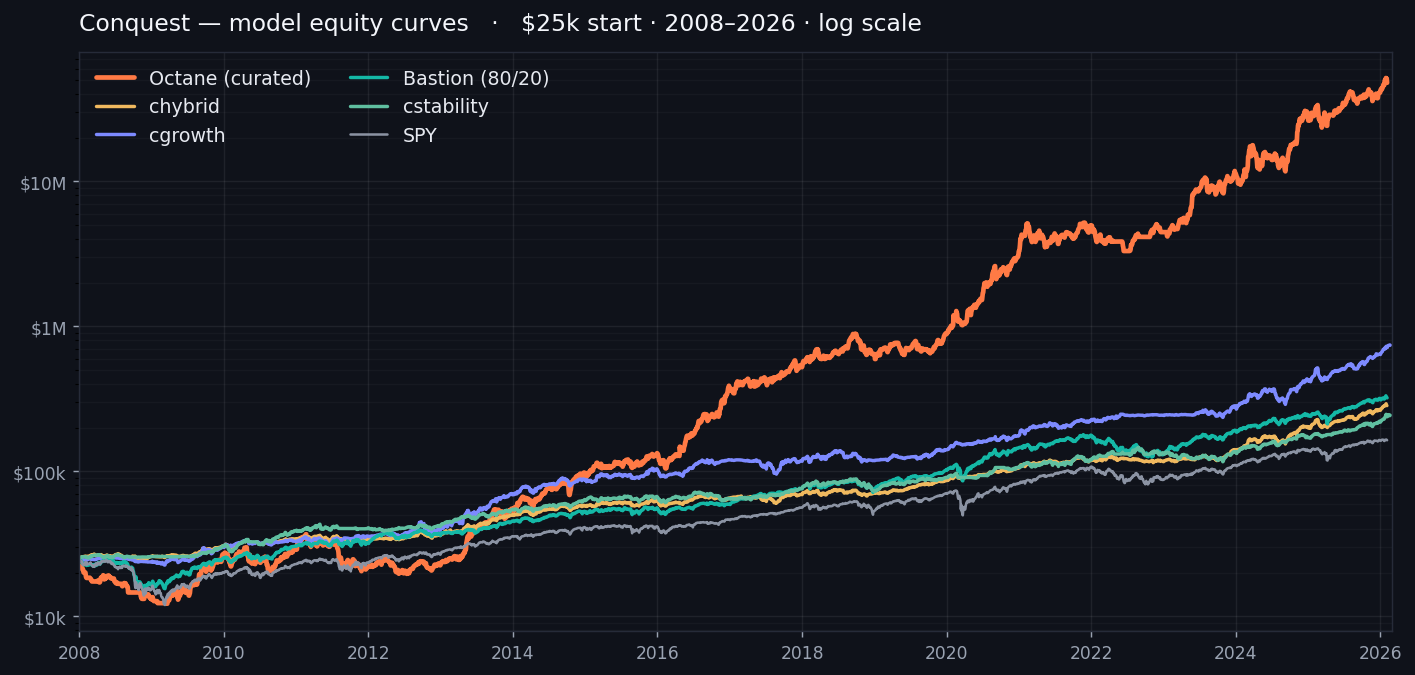
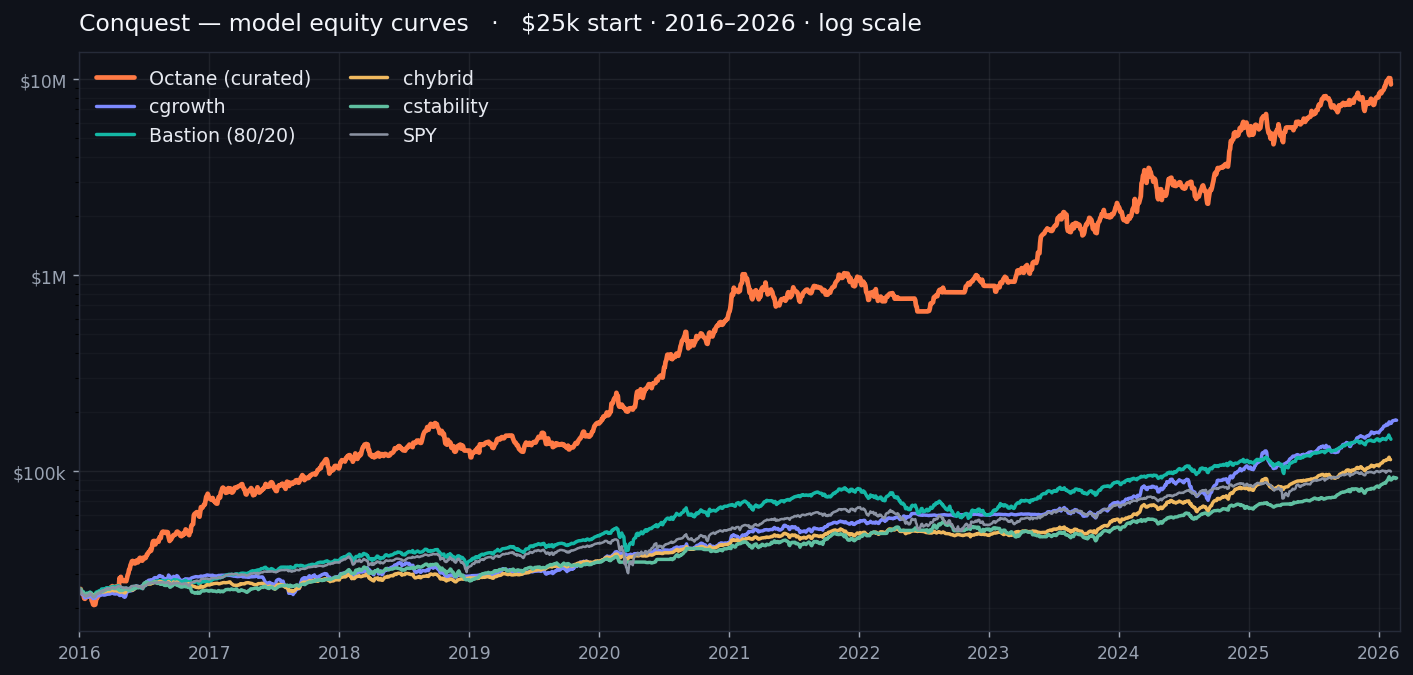
README: use a 2016–2026 equity-curve chart (recent-decade window)
Swap the hero image + caption from 2008–2026 to 2016–2026 — the recent decade
is the more representative window for the current model lineup. Same models
(octane curated, cgrowth, Bastion 80/20, chybrid, cstability, SPY), $25k start,
log scale.

diff --git a/README.md b/README.md
@@ -4,9 +4,9 @@
 
 Conquest is a personal systematic trading system built on [QuantConnect Lean](https://www.lean.io/). It doesn't forecast — it reacts to what markets are doing *today* (volatility, momentum, credit spreads, the macro regime) and applies pre-committed, rule-based allocations. Long-only, no margin, no option selling.
 
-![Conquest model equity curves, 2008–2026 (log scale, $25k start)](docs/equity-curves.png)
+![Conquest model equity curves, 2016–2026 (log scale, $25k start)](docs/equity-curves.png)
 
-*Point-in-time backtests · $25k start · 2008–2026 · log scale — illustrative, not a forecast. Octane's curated curve is hindsight-inflated (see the note under the table below).*
+*Point-in-time backtests · $25k start · 2016–2026 (the recent decade) · log scale — illustrative, not a forecast. Octane's curated curve is hindsight-inflated (see the note under the table below).*
 
 > 🔒 **Source availability — some of the code is intentionally hidden.** This repository publishes the full **framework** and the three models it's built around — **`cstability`**, **`cgrowth`**, and **`chybrid`**. Other strategies (the live flagship **`octane`**, and the retired **`surge`** / **`ctactical`**) are proprietary and **not included**; they appear in the table below for context only.
 